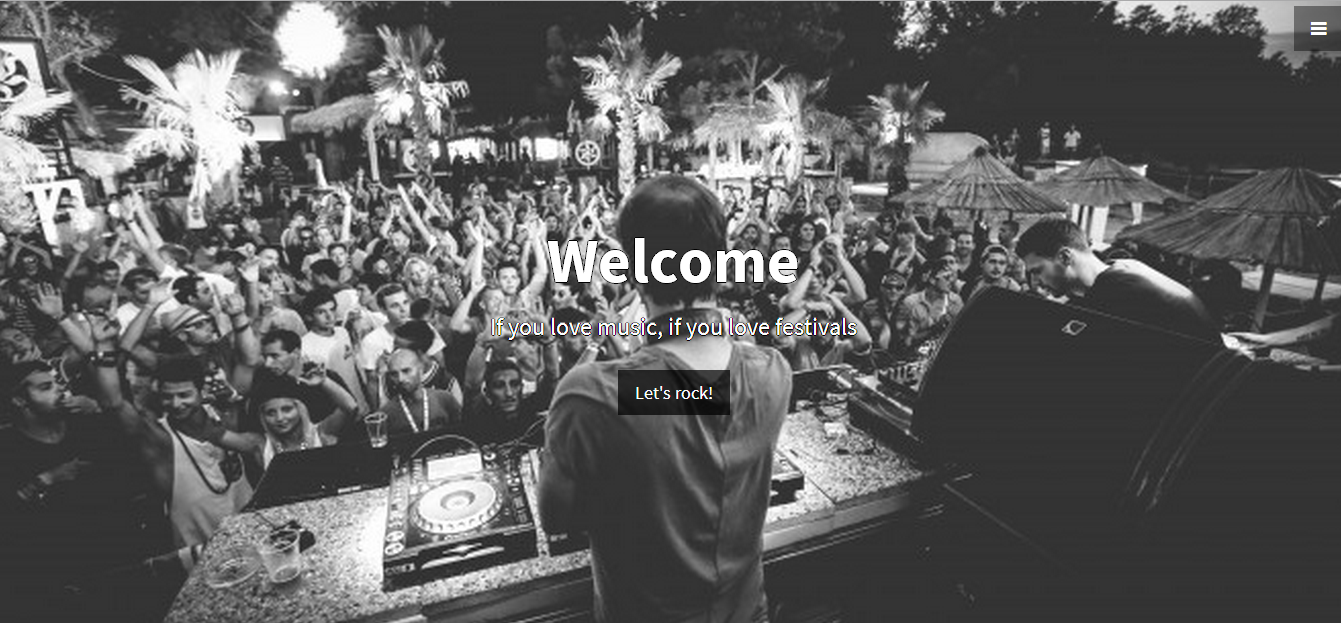
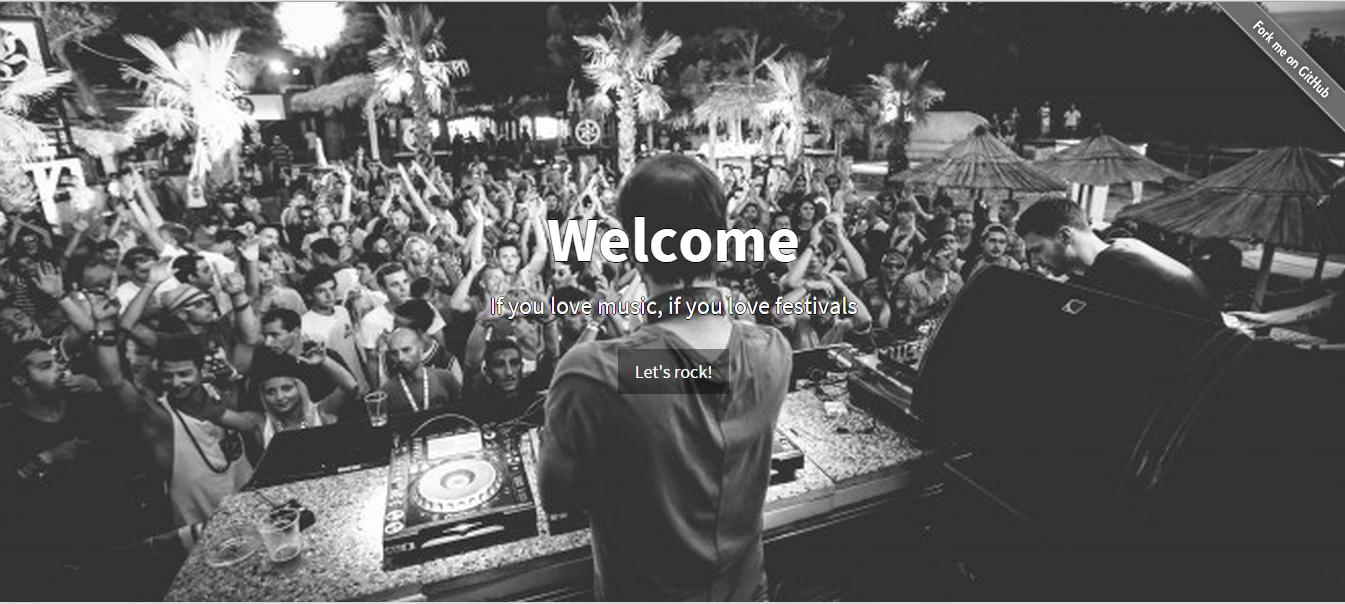
All finished.

diff --git a/WebContent/index.html b/WebContent/index.html
@@ -36,6 +36,11 @@
 	<!-- Header -->
 	<header id="top" class="header">
 		<div class="text-vertical-center">
+			<a href="https://github.com/TheCoa/FestivalsWeb/" target="_blank"><img
+				style="position: absolute; top: 0; right: 0; border: 0;"
+				src="https://camo.githubusercontent.com/a6677b08c955af8400f44c6298f40e7d19cc5b2d/68747470733a2f2f73332e616d617a6f6e6177732e636f6d2f6769746875622f726962626f6e732f666f726b6d655f72696768745f677261795f3664366436642e706e67"
+				alt="Fork me on GitHub"
+				data-canonical-src="https://s3.amazonaws.com/github/ribbons/forkme_right_gray_6d6d6d.png"></a>
 			<h1>Welcome</h1>
 			<h3>If you love music, if you love festivals</h3>
 			<br> <a href="#genreList" class="btn btn-dark btn-lg">Let's
@@ -70,7 +75,10 @@
 				<div class="googleMap">
 					<h2 id="mapH2">Festivals on map:</h2>
 					<div id="map-canvas"></div>
-					<h3><a class="reset" href="#map" onclick="resetCriteria()">[Reset criteria]</a></h3>
+					<h3>
+						<a class="reset" href="#map" onclick="resetCriteria()">[Reset
+							criteria]</a>
+					</h3>
 				</div>
 			</div>
 
